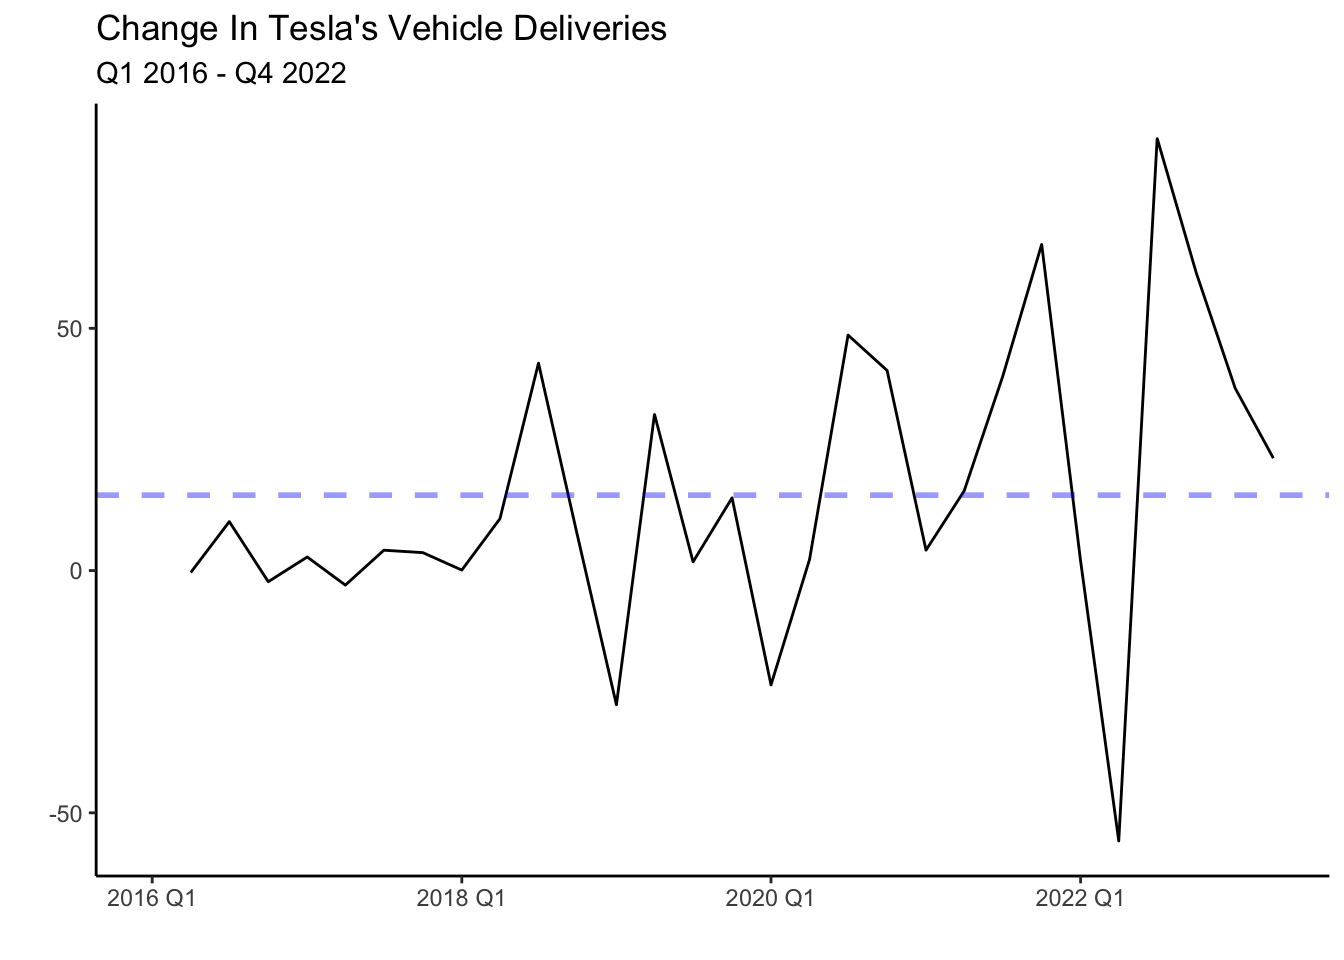
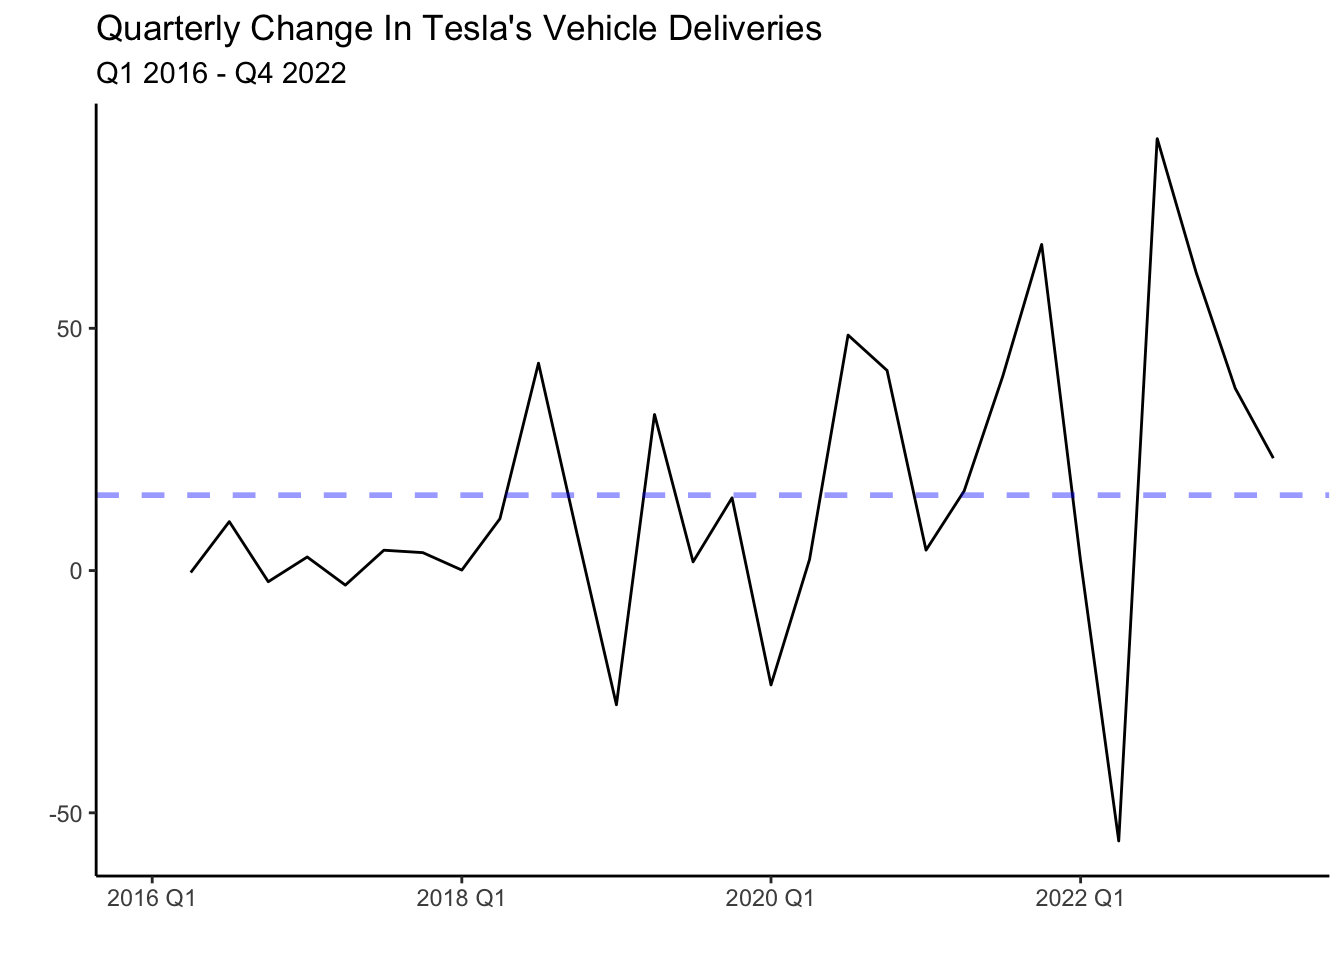
changes from deliveries to tesla data set

Changed region(s): [[0.0938, 0.0, 0.625, 0.0625]]

diff --git a/docs/ARIMA.html b/docs/ARIMA.html
@@ -300,24 +300,24 @@ We can generate a white noise process by using the normal distribution with a me
 <p><img src="ARIMA_files/figure-html/unnamed-chunk-3-1.png" class="img-fluid" width="672"></p>
 </div>
 </div>
-<p>Deliveries have been on an upward trend as the company is currently scaling its production, and demand is strong. This series is not stationary since it crosses the mean (blue line) once and never revisits it. That is, the mean is not constant and changes with time. It is possible to make the series stationary by finding differences. Below is the graph of the first difference.</p>
+<p>Deliveries have been on an upward trend as the company is currently scaling its production, and demand is strong. This series is not stationary since it crosses the mean (blue line) once and never revisits it. That is, the mean is not constant and changes with time. It is possible to make the series stationary by finding differences (i.e.&nbsp;the change in deliveries from quarter to quarter). Below is the graph of the first difference.</p>
 <div class="cell">
-<div class="sourceCode cell-code" id="cb3"><pre class="sourceCode r code-with-copy"><code class="sourceCode r"><span id="cb3-1"><a href="#cb3-1" aria-hidden="true" tabindex="-1"></a>deliveries <span class="sc">%&gt;%</span></span>
-<span id="cb3-2"><a href="#cb3-2" aria-hidden="true" tabindex="-1"></a>  <span class="fu">as_tsibble</span>(<span class="at">index=</span>period, <span class="at">regular=</span>T) <span class="sc">%&gt;%</span> <span class="fu">autoplot</span>(<span class="fu">difference</span>(deliveries)) <span class="sc">+</span> <span class="fu">theme_classic</span>() <span class="sc">+</span></span>
-<span id="cb3-3"><a href="#cb3-3" aria-hidden="true" tabindex="-1"></a>  <span class="fu">labs</span>(<span class="at">title=</span><span class="st">"Change In Tesla's Vehicle Deliveries"</span>,</span>
+<div class="sourceCode cell-code" id="cb3"><pre class="sourceCode r code-with-copy"><code class="sourceCode r"><span id="cb3-1"><a href="#cb3-1" aria-hidden="true" tabindex="-1"></a>tesla <span class="sc">%&gt;%</span></span>
+<span id="cb3-2"><a href="#cb3-2" aria-hidden="true" tabindex="-1"></a>  <span class="fu">autoplot</span>(<span class="fu">difference</span>(deliveries)) <span class="sc">+</span> <span class="fu">theme_classic</span>() <span class="sc">+</span></span>
+<span id="cb3-3"><a href="#cb3-3" aria-hidden="true" tabindex="-1"></a>  <span class="fu">labs</span>(<span class="at">title=</span><span class="st">"Quarterly Change In Tesla's Vehicle Deliveries"</span>,</span>
 <span id="cb3-4"><a href="#cb3-4" aria-hidden="true" tabindex="-1"></a>       <span class="at">subtitle =</span> <span class="st">"Q1 2016 - Q4 2022"</span>,<span class="at">x=</span><span class="st">""</span>,<span class="at">y=</span><span class="st">""</span>) <span class="sc">+</span> </span>
-<span id="cb3-5"><a href="#cb3-5" aria-hidden="true" tabindex="-1"></a>  <span class="fu">geom_hline</span>(<span class="at">yintercept =</span> <span class="fu">mean</span>(<span class="fu">difference</span>(deliveries<span class="sc">$</span>deliveries), <span class="at">na.rm =</span> <span class="cn">TRUE</span>), <span class="at">col=</span><span class="st">"blue"</span>, <span class="at">linetype=</span><span class="st">"dashed"</span>, <span class="at">lwd=</span><span class="dv">1</span>, <span class="at">alpha=</span><span class="fl">0.4</span>)</span></code><button title="Copy to Clipboard" class="code-copy-button"><i class="bi"></i></button></pre></div>
+<span id="cb3-5"><a href="#cb3-5" aria-hidden="true" tabindex="-1"></a>  <span class="fu">geom_hline</span>(<span class="at">yintercept =</span> <span class="fu">mean</span>(<span class="fu">difference</span>(tesla<span class="sc">$</span>deliveries), <span class="at">na.rm =</span> <span class="cn">TRUE</span>), <span class="at">col=</span><span class="st">"blue"</span>, <span class="at">linetype=</span><span class="st">"dashed"</span>, <span class="at">lwd=</span><span class="dv">1</span>, <span class="at">alpha=</span><span class="fl">0.4</span>)</span></code><button title="Copy to Clipboard" class="code-copy-button"><i class="bi"></i></button></pre></div>
 <div class="cell-output-display">
 <p><img src="ARIMA_files/figure-html/unnamed-chunk-4-1.png" class="img-fluid" width="672"></p>
 </div>
 </div>
 <p>The series now fluctuates closer to the mean, but unlike the white noise process behaves less erratic. You will notice that in some periods the change in deliveries from quarter to quarter is high. For example, following the lows at the beginning of the year, deliveries seem to increase sharply. There seems to be correlations between the quarters (time dependencies).</p>
-<p>Another pattern shown in the graph above is heteroskedasticity (increasing variance), The variance of the series seems to be low from the period of 2016-2018 while significantly higher for the period after. To normalize the variance of the series we can conduct a Box-Cox transformation.</p>
+<p>Another pattern shown in the graph above is heteroskedasticity (increasing variance), The variance of the series seems to be low in the period of 2016-2018 while significantly higher for the period after. To normalize the variance of the series we can conduct a Box-Cox transformation.</p>
 <div class="cell">
-<div class="sourceCode cell-code" id="cb4"><pre class="sourceCode r code-with-copy"><code class="sourceCode r"><span id="cb4-1"><a href="#cb4-1" aria-hidden="true" tabindex="-1"></a>lambda <span class="ot">&lt;-</span> deliveries <span class="sc">%&gt;%</span> <span class="fu">as_tsibble</span>(<span class="at">index=</span>period, <span class="at">regular=</span>T) <span class="sc">%&gt;%</span></span>
+<div class="sourceCode cell-code" id="cb4"><pre class="sourceCode r code-with-copy"><code class="sourceCode r"><span id="cb4-1"><a href="#cb4-1" aria-hidden="true" tabindex="-1"></a>lambda <span class="ot">&lt;-</span> tesla <span class="sc">%&gt;%</span> </span>
 <span id="cb4-2"><a href="#cb4-2" aria-hidden="true" tabindex="-1"></a>  <span class="fu">features</span>(deliveries, <span class="at">features =</span> guerrero) <span class="sc">%&gt;%</span> <span class="fu">pull</span>(lambda_guerrero) </span>
 <span id="cb4-3"><a href="#cb4-3" aria-hidden="true" tabindex="-1"></a></span>
-<span id="cb4-4"><a href="#cb4-4" aria-hidden="true" tabindex="-1"></a>deliveries <span class="sc">%&gt;%</span> <span class="fu">as_tsibble</span>(<span class="at">index=</span>period, <span class="at">regular=</span>T) <span class="sc">%&gt;%</span></span>
+<span id="cb4-4"><a href="#cb4-4" aria-hidden="true" tabindex="-1"></a>tesla <span class="sc">%&gt;%</span></span>
 <span id="cb4-5"><a href="#cb4-5" aria-hidden="true" tabindex="-1"></a>  <span class="fu">autoplot</span>(<span class="fu">box_cox</span>(<span class="fu">difference</span>(deliveries), lambda)) <span class="sc">+</span></span>
 <span id="cb4-6"><a href="#cb4-6" aria-hidden="true" tabindex="-1"></a>  <span class="fu">labs</span>(<span class="at">y =</span> <span class="st">""</span>)<span class="sc">+</span> <span class="fu">theme_classic</span>() <span class="sc">+</span></span>
 <span id="cb4-7"><a href="#cb4-7" aria-hidden="true" tabindex="-1"></a>  <span class="fu">labs</span>(<span class="at">title=</span><span class="st">"Box-Cox Transformation of Tesla's Vehicle Deliveries"</span>,</span>
@@ -326,10 +326,10 @@ We can generate a white noise process by using the normal distribution with a me
 <p><img src="ARIMA_files/figure-html/unnamed-chunk-5-1.png" class="img-fluid" width="672"></p>
 </div>
 </div>
-<p>The transformation has made the series a bit more homoskedastic (variance is more uniform) than the series without the transformation. It is important to note that both transformations (differencing and box-cox) can be undone by using an inverse function. We can always return the series to its original form. Luckily, <code>fable</code> does this automatically for us when we estimate a model.</p>
-<p>A couple of statistical features used to determine the stationarity of a series are the <em>unitroot_kpss</em> and <em>unitroot_ndiffs</em>. In general, a low p-value allows us to reject the null of hypothesis of stationarity. Below, we test the features with the non-stationary Tesla deliveries.</p>
+<p>The transformation has made the series a bit more homoskedastic (variance is more uniform) than the series without the transformation. It is important to note that both transformations (differencing and box-cox) can be undone by using an inverse function. Hence, we can always return the series to its original form. Luckily, <code>fable</code> does this automatically for us when we forecast a model.</p>
+<p>A couple of statistical features used to determine the stationarity of a series are the <em>unitroot_kpss</em> and <em>unitroot_ndiffs</em>. In general, a low p-value allows us to reject the null of hypothesis of stationarity. Below, we test the features with Tesla’s deliveries.</p>
 <div class="cell">
-<div class="sourceCode cell-code" id="cb5"><pre class="sourceCode r code-with-copy"><code class="sourceCode r"><span id="cb5-1"><a href="#cb5-1" aria-hidden="true" tabindex="-1"></a>deliveries <span class="sc">%&gt;%</span> <span class="fu">as_tsibble</span>(<span class="at">index=</span>period, <span class="at">regular=</span>T) <span class="sc">%&gt;%</span></span>
+<div class="sourceCode cell-code" id="cb5"><pre class="sourceCode r code-with-copy"><code class="sourceCode r"><span id="cb5-1"><a href="#cb5-1" aria-hidden="true" tabindex="-1"></a>tesla <span class="sc">%&gt;%</span></span>
 <span id="cb5-2"><a href="#cb5-2" aria-hidden="true" tabindex="-1"></a>  <span class="fu">features</span>(deliveries, <span class="at">features =</span> <span class="fu">c</span>(unitroot_kpss, unitroot_ndiffs)) </span></code><button title="Copy to Clipboard" class="code-copy-button"><i class="bi"></i></button></pre></div>
 </div>
 <div class="cell">
@@ -798,7 +798,7 @@ We can generate a white noise process by using the normal distribution with a me
 </div>
 </div>
 </div>
-<p>The test reports a p-value of 0.01 when it is below 0.01 and 0.1 when it is above 0.1. Hence, the p-value confirms that Tesla deliveries are non-stationary and that two differences are required to make the data stationary. Two differences might be required as Tesla’s deliveries seem to be growing exponentially.</p>
+<p>Unfortunately, the test does not report the calculated p-value. Instead, it reports a p-value of 0.01 when the p-value is below 0.01 and 0.1 when it is above 0.1. Given that the p-value reported is 0.01, we verify that Tesla deliveries are non-stationary and that two differences are required to make the data stationary (ndiffs=2).</p>
 </section>
 <section id="the-autocorrelation-function" class="level3 unnumbered">
 <h3 class="unnumbered anchored" data-anchor-id="the-autocorrelation-function">The autocorrelation function</h3>
